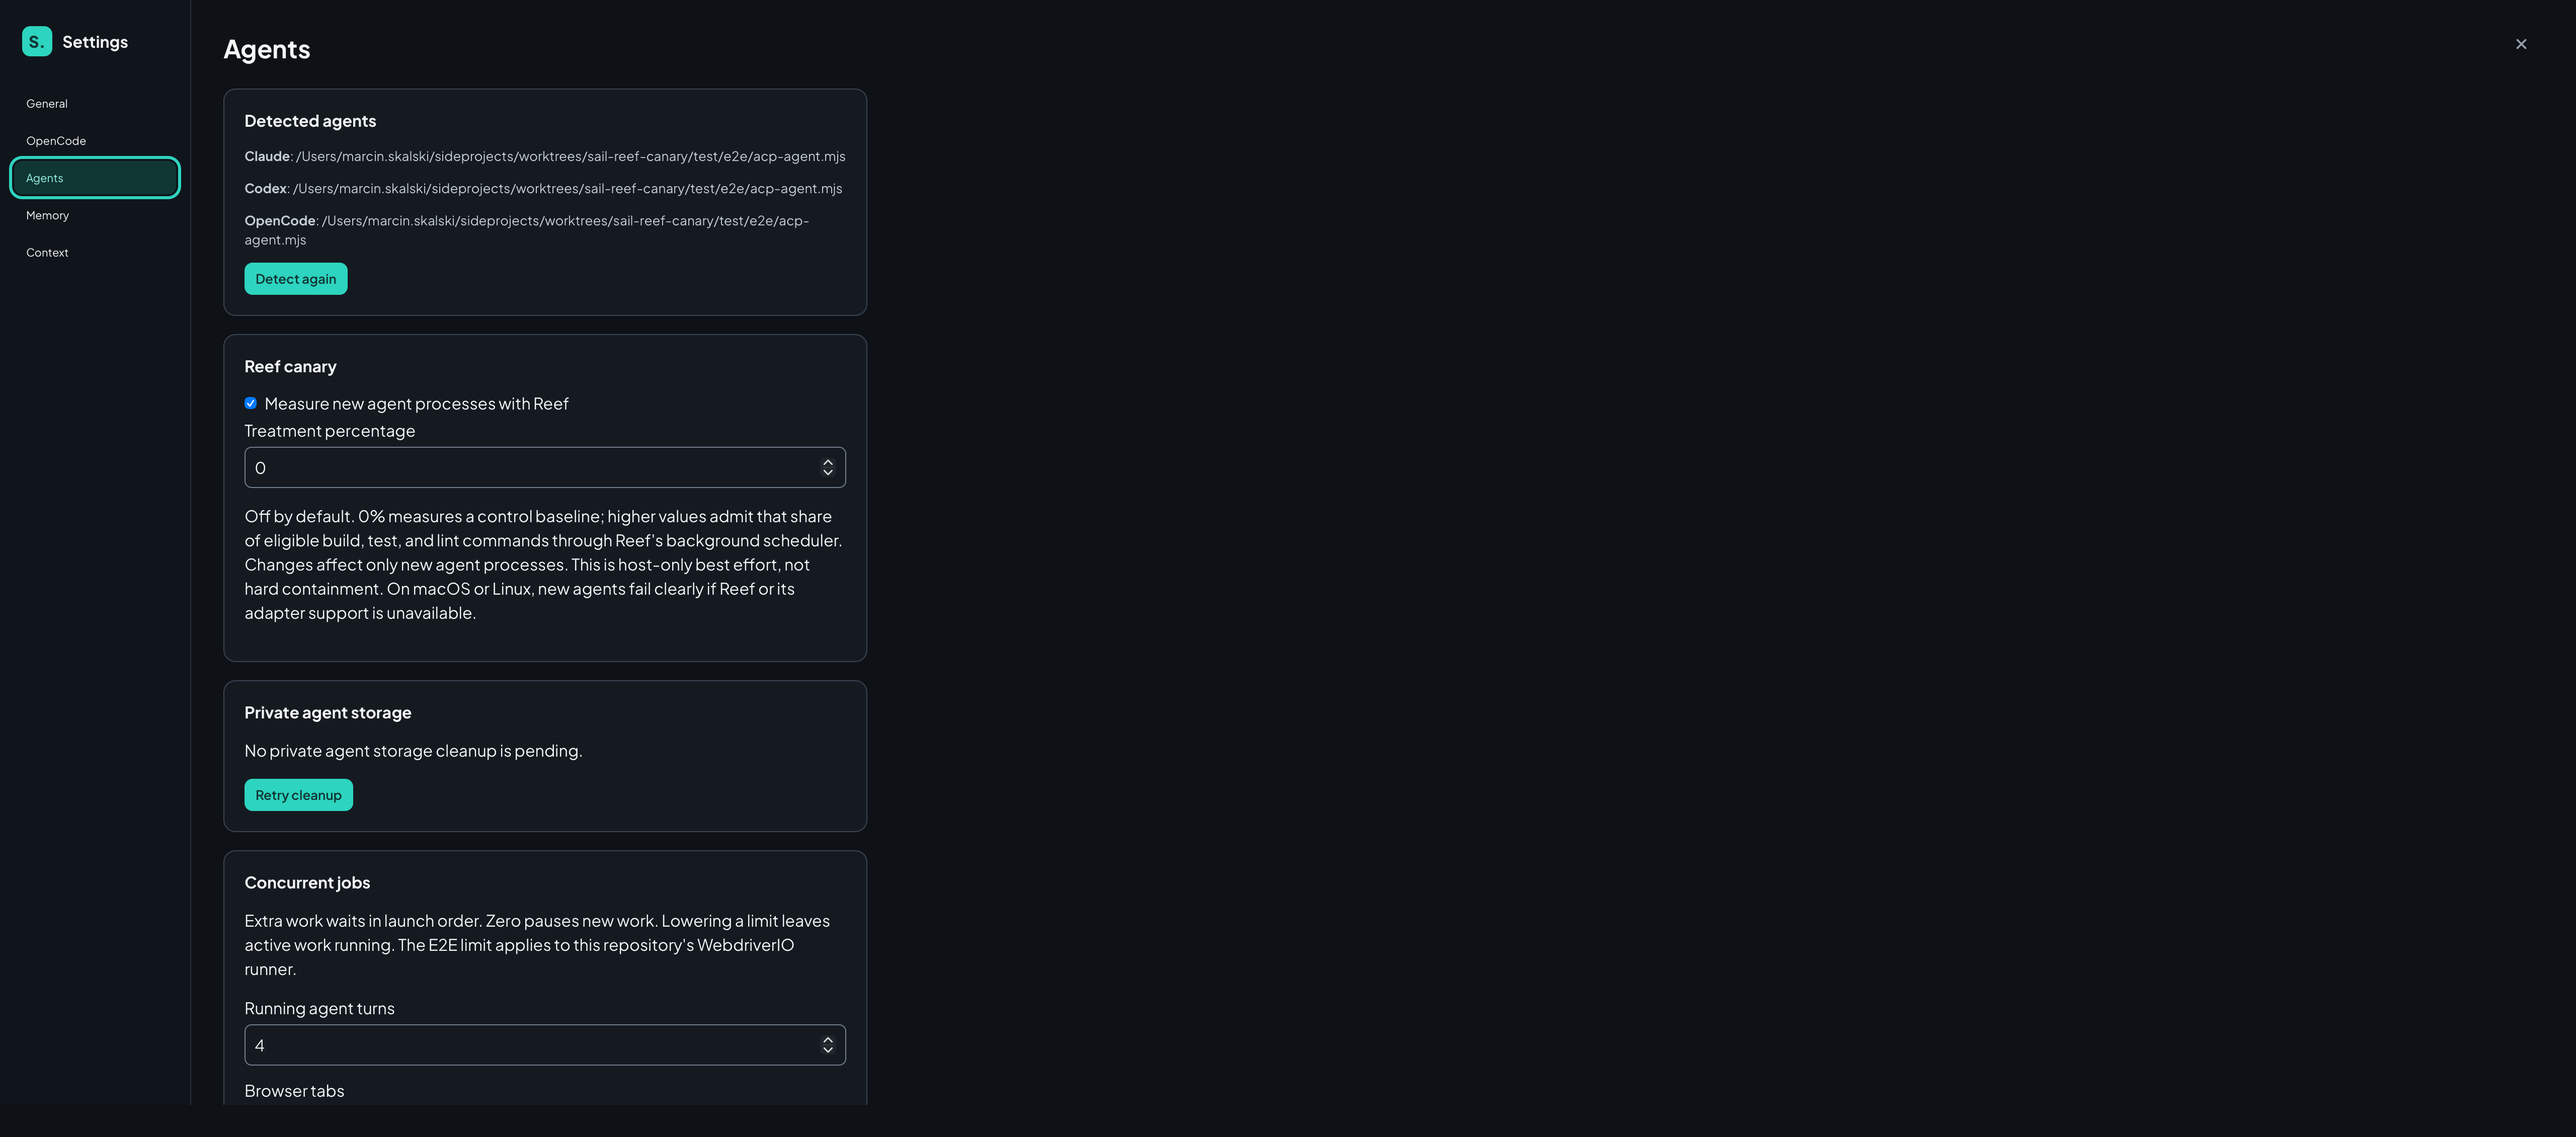
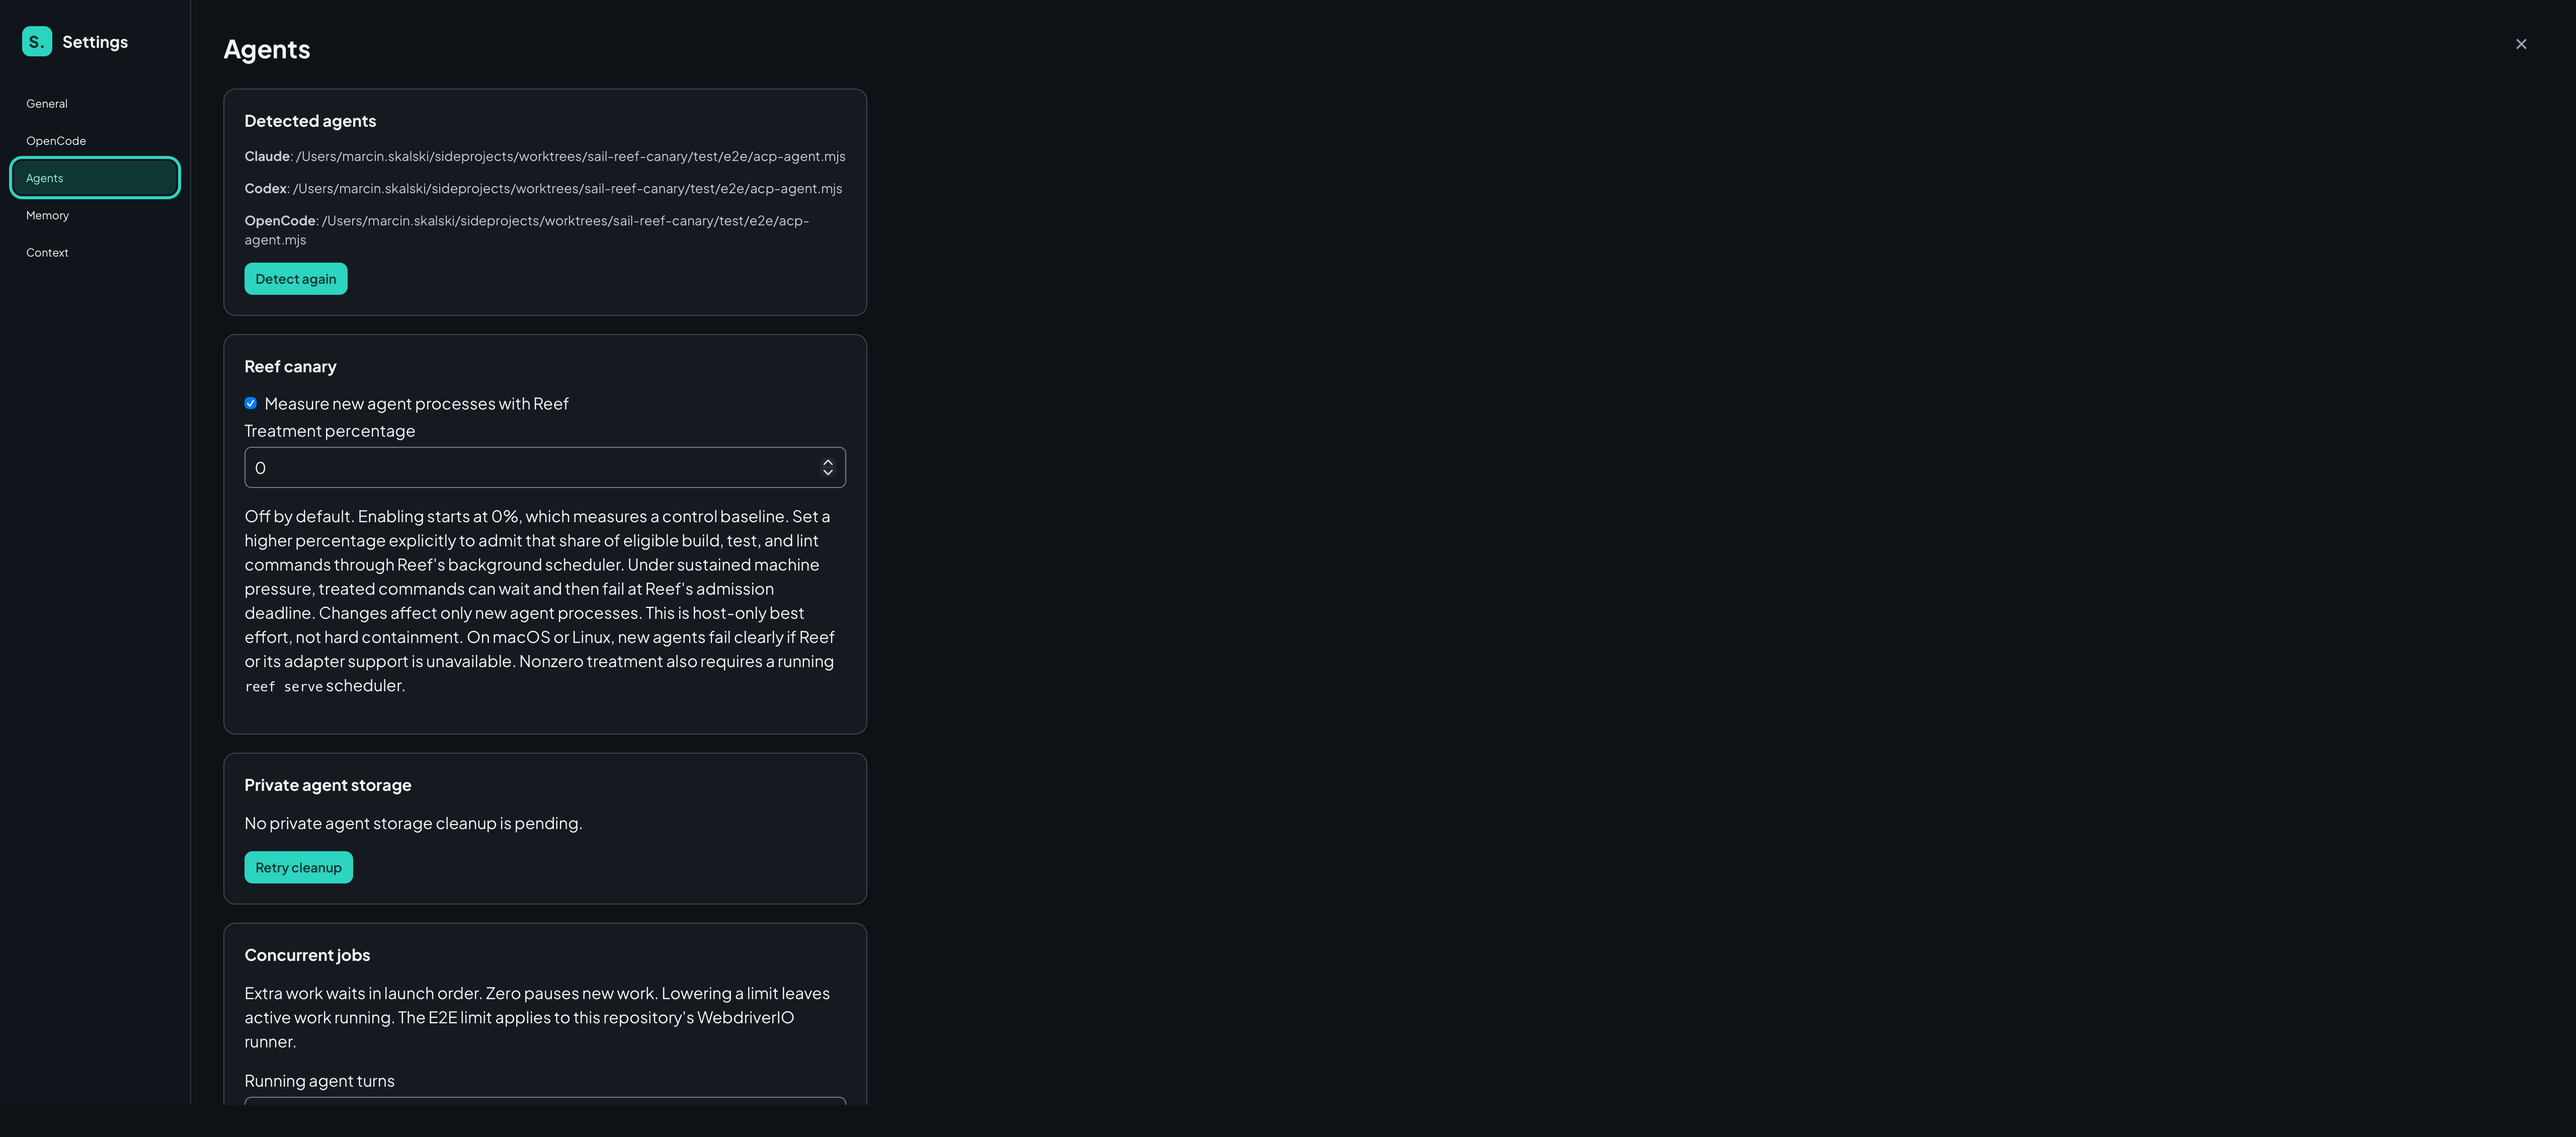
fix(agents): keep Reef canary treatment explicit and bounded

Changed region(s): [[0.0938, 0.4336, 0.3438, 0.9602]]

diff --git a/src/SettingsWindow.svelte b/src/SettingsWindow.svelte
@@ -1156,7 +1156,7 @@
             onchange={(event) =>
               send({
                 type: 'reef-canary-percent',
-                value: event.currentTarget.checked ? 10 : null,
+                value: event.currentTarget.checked ? 0 : null,
               })}
           />
           Measure new agent processes with Reef
@@ -1175,17 +1175,20 @@
               if (Number.isInteger(value) && value >= 0 && value <= 100)
                 send({ type: 'reef-canary-percent', value });
               else {
-                event.currentTarget.value = String(snapshot?.reefCanaryPercent ?? 10);
+                event.currentTarget.value = String(snapshot?.reefCanaryPercent ?? 0);
                 requestError = 'Enter a Reef canary percentage from 0 to 100.';
               }
             }}
           />
         {/if}
         <p>
-          Off by default. 0% measures a control baseline; higher values admit that share of eligible
-          build, test, and lint commands through Reef's background scheduler. Changes affect only
-          new agent processes. This is host-only best effort, not hard containment. On macOS or
-          Linux, new agents fail clearly if Reef or its adapter support is unavailable.
+          Off by default. Enabling starts at 0%, which measures a control baseline. Set a higher
+          percentage explicitly to admit that share of eligible build, test, and lint commands
+          through Reef's background scheduler. Under sustained machine pressure, treated commands
+          can wait and then fail at Reef's admission deadline. Changes affect only new agent
+          processes. This is host-only best effort, not hard containment. On macOS or Linux, new
+          agents fail clearly if Reef or its adapter support is unavailable. Nonzero treatment also
+          requires a running <code>reef serve</code> scheduler.
         </p>
       </section>
       <section class="settings-card">

diff --git a/test/e2e/reef-canary.spec.ts b/test/e2e/reef-canary.spec.ts
@@ -58,7 +58,7 @@ describe('Reef canary settings', () => {
     await expect($('#reef-canary-percent')).not.toExist();
 
     await toggle.click();
-    await expect($('#reef-canary-percent')).toHaveValue('10');
+    await expect($('#reef-canary-percent')).toHaveValue('0');
     await browser.execute(() => {
       const input = document.getElementById('reef-canary-percent');
       if (!(input instanceof HTMLInputElement)) throw new Error('Missing Reef canary input');

diff --git a/src-tauri/src/reef_canary.rs b/src-tauri/src/reef_canary.rs
@@ -1,8 +1,12 @@
 #[cfg(unix)]
 use std::path::{Path, PathBuf};
 #[cfg(unix)]
-use std::process::Command;
+use std::process::{Command, Stdio};
+#[cfg(unix)]
+use std::time::Duration;
 use tauri::AppHandle;
+#[cfg(unix)]
+use wait_timeout::ChildExt;
 
 const SETTING: &str = "sai-reef-canary-percent";
 
@@ -34,6 +38,42 @@ pub(crate) fn verify_executable(reef: Option<PathBuf>) -> Result<PathBuf, String
         return Err("Upgrade Reef to a version with ACP adapter --exec support.".into());
     }
     Ok(reef)
+}
+
+#[cfg(unix)]
+pub(crate) fn verify_scheduler(reef: &Path) -> Result<(), String> {
+    if !probe_command(Command::new(reef).arg("queue"), Duration::from_secs(2))? {
+        return Err("Reef canary treatment requires a running `reef serve` scheduler.".into());
+    }
+    Ok(())
+}
+
+#[cfg(unix)]
+fn probe_command(command: &mut Command, timeout: Duration) -> Result<bool, String> {
+    let mut child = command
+        .stdout(Stdio::null())
+        .stderr(Stdio::null())
+        .spawn()
+        .map_err(|error| format!("Could not check the Reef scheduler: {error}"))?;
+    match child.wait_timeout(timeout) {
+        Ok(Some(status)) => Ok(status.success()),
+        Ok(None) => {
+            child
+                .kill()
+                .map_err(|error| format!("Could not stop the stalled Reef check: {error}"))?;
+            child
+                .wait()
+                .map_err(|error| format!("Could not reap the stalled Reef check: {error}"))?;
+            Err("Reef scheduler health check timed out; agent was not started.".into())
+        }
+        Err(error) => {
+            let _ = child.kill();
+            let _ = child.wait();
+            Err(format!(
+                "Could not wait for the Reef scheduler check: {error}"
+            ))
+        }
+    }
 }
 
 #[cfg(unix)]
@@ -133,5 +173,30 @@ mod tests {
             (OsStr::new("CODEX_PATH"), Some(OsStr::new("/private/codex")))
         );
         assert_eq!(environment[1], (OsStr::new("OPENCODE_CONFIG_DIR"), None));
+    }
+
+    #[cfg(unix)]
+    #[test]
+    fn nonzero_treatment_requires_a_healthy_scheduler() {
+        use std::path::Path;
+
+        assert!(super::verify_scheduler(Path::new("/usr/bin/true")).is_ok());
+        assert!(super::verify_scheduler(Path::new("/usr/bin/false"))
+            .unwrap_err()
+            .contains("running `reef serve`"));
+    }
+
+    #[cfg(unix)]
+    #[test]
+    fn stalled_scheduler_probe_has_a_deadline() {
+        use std::process::Command;
+        use std::time::Duration;
+
+        assert!(super::probe_command(
+            Command::new("/bin/sleep").arg("2"),
+            Duration::from_millis(10)
+        )
+        .unwrap_err()
+        .contains("timed out"));
     }
 }

diff --git a/src-tauri/src/acp.rs b/src-tauri/src/acp.rs
@@ -4306,8 +4306,11 @@ fn connect_blocking_inner(
     #[cfg(unix)]
     let reef_canary = canary_percent
         .map(|percent| {
-            crate::reef_canary::verify_executable(find_executable("reef"))
-                .map(|reef| (reef, percent))
+            let reef = crate::reef_canary::verify_executable(find_executable("reef"))?;
+            if percent > 0 {
+                crate::reef_canary::verify_scheduler(&reef)?;
+            }
+            Ok::<_, String>((reef, percent))
         })
         .transpose()?;
     #[cfg(not(unix))]

diff --git a/README.md b/README.md
@@ -21,7 +21,7 @@ A desktop workspace for coding-agent work. Sail hosts OpenCode, Claude and Codex
 - In **Changes**, click a diff line or Shift-click a range, write a comment, and add it to the draft list. Press ⌘Enter to send all pending comments to that agent in one message. Comments follow matching lines after a refresh; removed lines appear as outdated.
 - Switch a changed file between **All**, **Staged**, and **Unstaged** to stage or unstage a file or hunk. Revert unstaged changes after confirming; Sail rejects actions when the diff has changed since it loaded.
 - Sail runs pinned ACP adapters on demand. The first launch downloads the adapter through `npx`; later launches use npm's cache. Each agent uses its own authentication and configuration. Codex can open its ChatGPT sign-in flow inside Sail when needed.
-- Reef canary is off by default. After installing a Reef release with `agents launch --exec` support and starting `reef serve`, enable it in **Settings → Agents → Reef canary**. Sail then launches new Claude, Codex, and OpenCode ACP adapter processes through Reef without changing existing sessions. Set 0% to measure a control baseline, or 1–100% to admit that share of eligible build, test, and lint commands through Reef's best-effort host scheduler. The setting does not provide hard macOS containment; Reef keeps command arguments out of its measurements.
+- Reef canary is off by default. After installing a Reef release with `agents launch --exec` support, enable it in **Settings → Agents → Reef canary**. Sail then launches new Claude, Codex, and OpenCode ACP adapter processes through Reef without changing existing sessions. Enabling starts at 0% to measure a control baseline without a scheduler. Start `reef serve` before explicitly selecting 1–100% treatment; Sail checks that the scheduler is running before each new agent launch. Treatment admits that share of eligible build, test, and lint commands through Reef's best-effort host scheduler. Under sustained machine pressure, treated commands can wait and then fail at Reef's admission deadline. The setting does not provide hard macOS containment; Reef keeps command arguments out of its measurements.
 - Threads are saved per repository and agent. Reopening a thread replays its history from the agent. Every agent proposes structured plans through Sail's `sail_plan_*` tools and uses the same Plan view; see [plan review for ACP agents](docs/plan-review.md).
 
 ## Development
